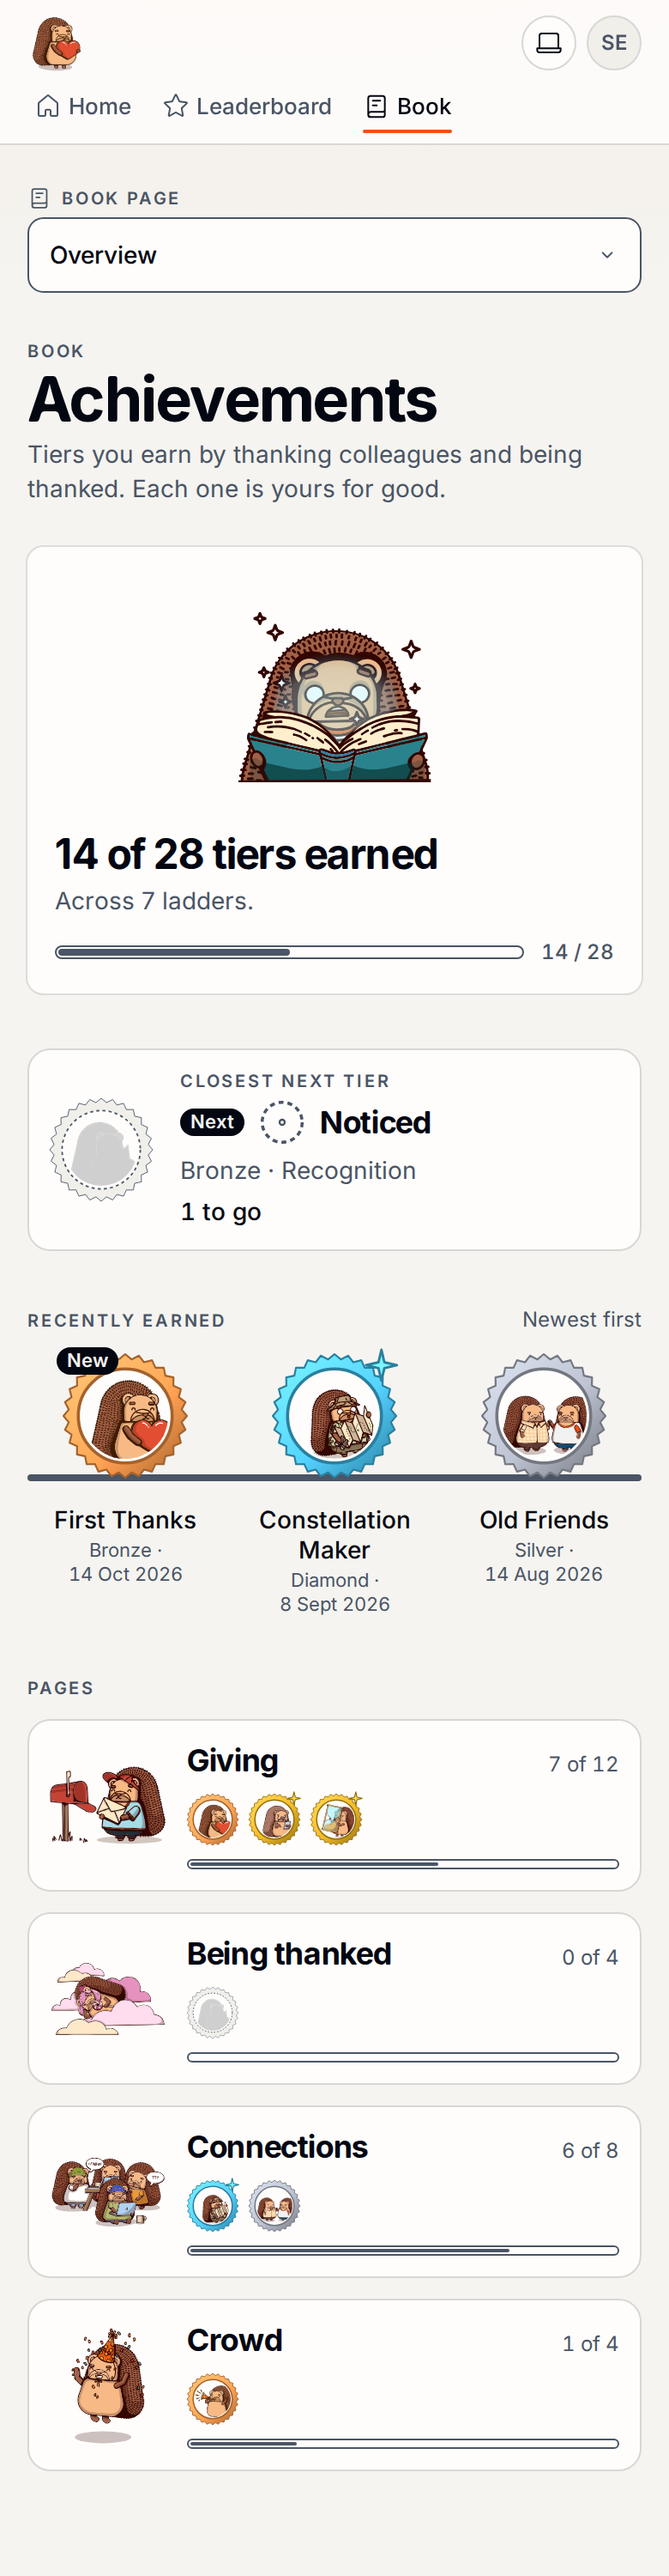
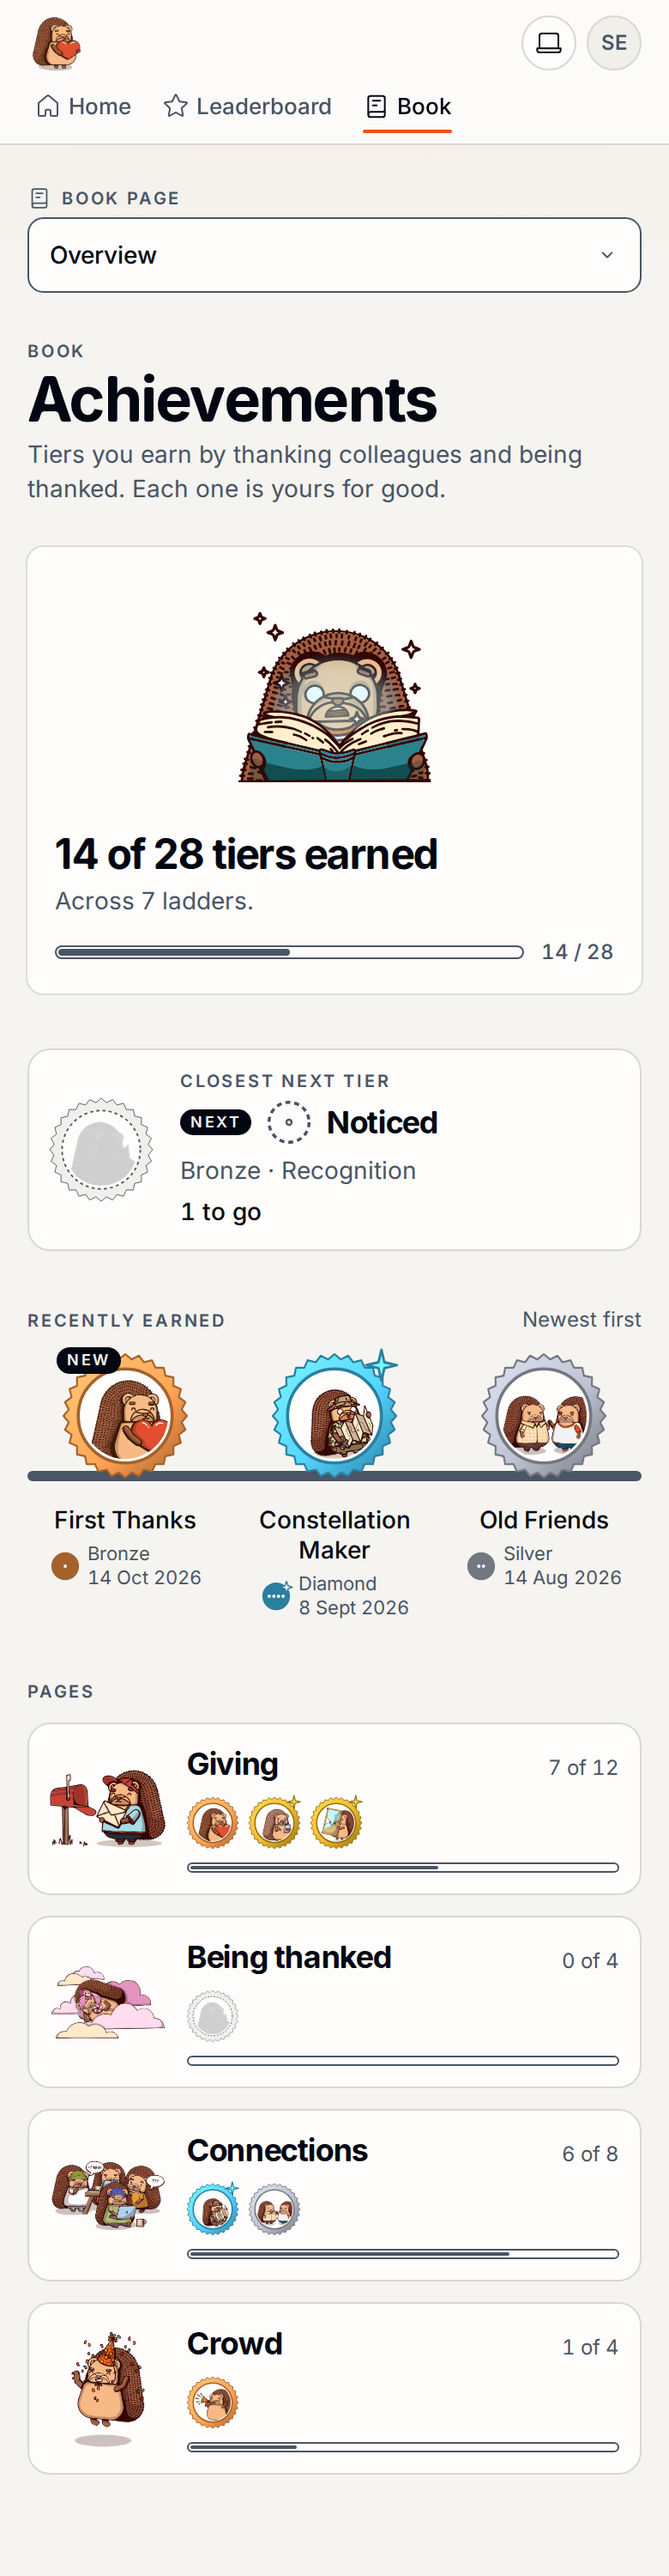
Shelf medals with pips, a non-vacuous hedgehog test, and Fable's polish
Sol round 1: each shelved tier now shows its earned medal with one to
four pips beside its word (V16, V24), and the hedgehog test fails when
the hedgehog is missing. Fable: hud-label tags, a seated shelf plank,
and stacked tier and date on a narrow screen. The live-shell test reads
the overview's totals, and the overview contrast test covers the
shelf's medals.

diff --git a/website/src/book/Overview.tsx b/website/src/book/Overview.tsx
@@ -93,10 +93,10 @@ function RecentlyEarned({ ladders, chapters, timeZone }: OverviewProps & { chapt
         Recently earned
       </SectionHeading>
       <div className="relative">
-        <span aria-hidden="true" className="absolute inset-x-0 top-[70px] h-1 rounded-full bg-muted-foreground" />
+        <span aria-hidden="true" className="absolute inset-x-0 top-[68px] h-1.5 rounded-sm bg-muted-foreground" />
         <ol aria-labelledby={headingId} className={`relative grid gap-x-2 ${wide ? "grid-cols-5" : "grid-cols-3"}`}>
           {shelf.map((entry, i) => (
-            <ShelfItem key={entry.ladder.ladder} entry={entry} fresh={i === 0 && isNew(entry, now)} href={pageOf(entry.ladder, chapters)} timeZone={timeZone} />
+            <ShelfItem key={entry.ladder.ladder} entry={entry} fresh={i === 0 && isNew(entry, now)} href={pageOf(entry.ladder, chapters)} timeZone={timeZone} wide={wide} />
           ))}
         </ol>
       </div>
@@ -104,7 +104,7 @@ function RecentlyEarned({ ladders, chapters, timeZone }: OverviewProps & { chapt
   );
 }
 
-function ShelfItem({ entry: { ladder, tier }, fresh, href, timeZone }: { entry: Shelved; fresh: boolean; href: string; timeZone: string }) {
+function ShelfItem({ entry: { ladder, tier }, fresh, href, timeZone, wide }: { entry: Shelved; fresh: boolean; href: string; timeZone: string; wide: boolean }) {
   return (
     <li className="min-w-0">
       <AppLink
@@ -116,13 +116,26 @@ function ShelfItem({ entry: { ladder, tier }, fresh, href, timeZone }: { entry: 
           <LadderEmblem ladder={ladder.ladder} best={tier.tier} size={72} />
           {fresh && <Tag className="absolute -left-1 -top-1">New</Tag>}
         </span>
-        <span className="mt-4 w-full text-balance break-words px-1 text-sm font-medium leading-tight">{tier.name}</span>
-        <span className="mt-0.5 flex w-full flex-wrap justify-center gap-x-1 px-1 text-[11px] leading-tight tabular-nums text-muted-foreground">
-          <span>{tierWords[tier.tier]} ·</span>{" "}
-          <span>{dateWords(tier.earnedAt, timeZone)}</span>
-        </span>
+        <span className="mt-4 line-clamp-2 w-full text-balance break-words px-1 text-sm font-medium leading-tight">{tier.name}</span>
+        <EarnedLine tier={tier} timeZone={timeZone} wide={wide} />
       </AppLink>
     </li>
+  );
+}
+
+function EarnedLine({ tier, timeZone, wide }: { tier: Shelved["tier"]; timeZone: string; wide: boolean }) {
+  const date = dateWords(tier.earnedAt, timeZone);
+  return (
+    <span className="mt-1 flex w-full items-center justify-center gap-1 px-1 text-[11px] leading-tight tabular-nums text-muted-foreground">
+      <Medal tier={tier.tier} earned size={18} />
+      {wide ? (
+        <span className="truncate">{`${tierWords[tier.tier]} · ${date}`}</span>
+      ) : (
+        <span className="flex flex-col items-start text-left">
+          <span>{tierWords[tier.tier]}</span> <span className="whitespace-nowrap">{date}</span>
+        </span>
+      )}
+    </span>
   );
 }
 

diff --git a/website/src/levelContrast.test.tsx b/website/src/levelContrast.test.tsx
@@ -154,10 +154,11 @@ function overviewGraphics() {
     { part: "each bar's track and fill", surfaces: ["card"], elements: bars.flatMap((bar) => [bar, bar.firstElementChild!]) },
     { part: "the shelf's plank", surfaces: ["background"], elements: [shelf.previousElementSibling!] },
     { part: "the Next medal's outline", surfaces: ["card"], elements: [...overview.querySelectorAll("[data-medal='outline'] circle[stroke^='var(']")] },
+    { part: "each shelved tier's medal", surfaces: ["background"], elements: [...shelf.querySelectorAll("[data-medal='earned'] circle[stroke^='var(']")] },
   ];
 }
 
-describe("WS334 WS339 V24: the overview's rosettes, bars, plank and Next medal meet 3:1 against their surface in both modes", () => {
+describe("WS334 WS339 V24: the overview's rosettes, bars, plank and medals meet 3:1 against their surface in both modes", () => {
   beforeEach(() => {
     fakeSystemTheme(false);
   });
@@ -167,9 +168,9 @@ describe("WS334 WS339 V24: the overview's rosettes, bars, plank and Next medal m
       const measured = overviewGraphics().flatMap(({ part, surfaces, elements }) =>
         elements.flatMap((element) => paintsOf(element).flatMap((paint) => surfaces.map((surface) => ({ part, paint, surface, ratio: contrast(mode, paint, surface) })))),
       );
-      expect(new Set(measured.map(({ part }) => part)).size).toBe(4);
+      expect(new Set(measured.map(({ part }) => part)).size).toBe(5);
       expect(new Set(measured.map(({ paint }) => paint))).toEqual(new Set(["medal-bronze", "medal-silver", "medal-gold", "medal-diamond", "muted-foreground"]));
       expect(measured.filter(({ ratio }) => ratio < 3)).toEqual([]);
-    });
+    }, 30_000);
   }
 });

diff --git a/website/src/BookPage.test.tsx b/website/src/BookPage.test.tsx
@@ -468,7 +468,9 @@ describe("WS334: the Book's overview", () => {
 
   it("shows E's book-reading hedgehog", () => {
     showBookAt("/book");
-    expect(overview().querySelector("[data-hog='reading']")?.closest("[aria-hidden='true']")).not.toBeNull();
+    const hog = overview().querySelector("[data-hog='reading']");
+    expect(hog).toBeInTheDocument();
+    expect(hog!.closest("[aria-hidden='true']")).not.toBeNull();
   });
 
   it("leads to the ladder with the fewest left to its next tier, naming the tier and how many to go, with a neutral Next tag", () => {
@@ -527,6 +529,7 @@ describe("WS334: the Book's overview", () => {
       expect.stringMatching(/Half-Year Hero.*Gold · 30 Jun 2026/),
     ]);
     expect(shelved().map((entry) => entry.querySelector("[data-rosette]")?.getAttribute("data-rosette"))).toEqual(["bronze", "diamond", "silver", "gold", "gold"]);
+    expect(shelved().map((entry) => entry.querySelectorAll("[data-medal='earned'] [data-pip]").length)).toEqual([1, 4, 2, 3, 3]);
     expect(within(shelved()[1]!).getByRole("link")).toHaveAttribute("href", "/book?page=connections");
     expect(main()).toHaveTextContent("Newest first");
   });

diff --git a/website/src/book/Medal.tsx b/website/src/book/Medal.tsx
@@ -7,12 +7,12 @@ const sparkles: ReadonlySet<TierId> = new Set(["gold", "diamond"]);
 
 const pipSpacing = 3.6;
 
-export function Medal({ tier, earned }: { tier: TierId; earned: boolean }) {
+export function Medal({ tier, earned, size = 28 }: { tier: TierId; earned: boolean; size?: number }) {
   const pips = pipsOf[tier];
   const metal = metalOf(tier);
   const ink = earned ? { fill: "var(--card)", stroke: "none" } : { fill: "none", stroke: "var(--muted-foreground)" };
   return (
-    <svg data-medal={earned ? "earned" : "outline"} width={28} height={28} viewBox="0 0 24 24" aria-hidden="true" className="shrink-0 overflow-visible">
+    <svg data-medal={earned ? "earned" : "outline"} width={size} height={size} viewBox="0 0 24 24" aria-hidden="true" className="shrink-0 overflow-visible">
       <circle cx="12" cy="12" r="10" fill={earned ? metal : "none"} stroke={earned ? metal : "var(--muted-foreground)"} strokeWidth="1.5" strokeDasharray={earned ? undefined : "2.5 2"} />
       {Array.from({ length: pips }, (_, pip) => (
         <circle key={pip} data-pip="" cx={12 + (pip - (pips - 1) / 2) * pipSpacing} cy="12" r="1.3" strokeWidth="1" {...ink} />

diff --git a/website/src/liveShell.test.tsx b/website/src/liveShell.test.tsx
@@ -270,7 +270,7 @@ describe("WS87: the skill tree page buys through the live shell's buyPerk", () =
   });
 });
 
-describe("WS90 WS92: the live site reads the Book on /book", () => {
+describe("WS90 WS334: the live site reads the Book on /book", () => {
   beforeEach(() => {
     window.history.replaceState(null, "", "/book");
     profileRead.mockReturnValue(shellFixtures.memberWithTheBookOpened);
@@ -280,7 +280,7 @@ describe("WS90 WS92: the live site reads the Book on /book", () => {
     boardRead.mockReturnValue(bookFixtures.book);
     renderLiveSite();
     expect(pageTitle()).toHaveTextContent("Achievements");
-    expect(screen.getByRole("heading", { level: 2, name: "Generosity" })).toBeInTheDocument();
+    expect(screen.getByRole("heading", { level: 2, name: "1 of 8 tiers earned" })).toBeInTheDocument();
   });
 
   it("shows the error page under the HUD when the Book read fails", async () => {

diff --git a/website/src/book/Tag.tsx b/website/src/book/Tag.tsx
@@ -1,5 +1,5 @@
 import type { ReactNode } from "react";
 
 export function Tag({ children, className = "" }: { children: ReactNode; className?: string }) {
-  return <span className={`rounded-full bg-foreground px-1.5 py-px text-[11px] font-semibold leading-tight text-background ${className}`}>{children}</span>;
+  return <span className={`rounded-full bg-foreground px-1.5 py-0.5 text-[9px] font-semibold uppercase leading-tight tracking-[0.14em] text-background ${className}`}>{children}</span>;
 }

diff --git a/website/proof/book-overview/README.md b/website/proof/book-overview/README.md
@@ -1,0 +1,31 @@
+# The Book's overview (#290)
+
+WS334, WS339; V4, V16, V17, V24; #85. Website only: `getBook`'s read is unchanged, so the screenshots come from the fixture build (`VITE_SHELL_FIXTURE=member-with-the-book-opened`, answered with every shipped ladder at a different stage) at 1440 px and 390 px, served by `vite preview` on 127.0.0.1:7920 and driven in the T3 preview browser. No backend, flag or cloud deployment was touched.
+
+| Shot | What it shows |
+|---|---|
+| `1-overview-wide-light.png` | The overview on a wide screen: E's book-reading hedgehog beside `14 of 28 tiers earned`, `Across 7 ladders.` and a neutral bar; the closest next tier (`Noticed`, `Bronze · Recognition`, `1 to go`, a neutral `Next` tag); five shelved tiers, newest first, the newest tagged `New`; four category tiles with their art, ladder emblems, counts and bars. |
+| `2-overview-wide-dark.png` | The same in dark. |
+| `3-overview-390-light.png` | 390 px: the hedgehog stacks above the totals, the shelf holds three, names and dates wrap rather than truncate, the tiles stack. `scrollWidth` 390. |
+| `4-overview-390-dark.png` | The same in dark. |
+| `5-focus-shelf-wide-light.png` | Keyboard focus on the first shelved tier: the 2 px ring round the whole entry. |
+
+E at the same page, for comparison: the #259 audit's [overview pair](https://github.com/Silthus/kudos/blob/research/prototype-fidelity/research/prototype-fidelity/screenshots/compare-book-overview-light.png) ([dark](https://github.com/Silthus/kudos/blob/research/prototype-fidelity/research/prototype-fidelity/screenshots/compare-book-overview-dark.png)): the right half of each is E.
+
+## Kept from E, and changed on purpose
+
+- **Kept:** the book-reading hedgehog (`HedgehogReadingIsMagic`), `{earned} of {total} tiers earned` with a bar, the `Closest next tier` card with emblem, `Next`, medal, tier name and ladder, linking to its page; `Recently earned` with `Newest first`, the latest tier per ladder on a shelf plank, five wide and three narrow, `New` on the newest; the category tiles with art, ladder emblems, count and bar.
+- **Changed:**
+  - No paper texture or stacked-page shadow: C10 keeps paper for the albums; achievements stay plain Quill cards (V2).
+  - `Next` and `New` are neutral foreground pills, not primary (D2, V4). The bars are neutral `muted-foreground`, and the plank is a solid `muted-foreground` rule, so each meets 3:1 (V24).
+  - The closest next tier shows `{at − count} to go` and no `count / at` bar: Recognition counts kudos received, and received totals stay private on the overview (#85). E's requirement sentence waits for a unit fact, as on the ladder cards.
+  - No reward lines, coins or sticker-album tile: their facts haven't shipped (WS91, WS346, WS347).
+  - No hover tilts or shine: the only motion-like element is the static gold and diamond sparkle (WS339).
+  - Five or three entries switch at the website's own wide breakpoint (64rem, the one the page index uses), and only the shown entries render, so a screen reader hears what is on screen.
+
+## V24 manual pass
+
+- **Focus order:** the page index, the title, the closest next tier, each shelved tier newest first, then each tile in E's order: reading order.
+- **Focus visibility:** every link on the overview draws the 2 px `outline-ring` ring with an offset (`5-focus-shelf-wide-light.png`).
+- **Reduced motion:** nothing on the overview animates, so there is nothing to reduce.
+- **Screen-reader wording:** the totals are a `progressbar` named `14 of 28 tiers earned`; the card reads `Closest next tier: Noticed, Bronze · Recognition, 1 to go`; a shelved tier reads `First Thanks, Bronze Generosity, earned 14 Oct 2026, new`; a tile reads `Giving, 7 of 12 tiers earned`. The art, emblems and tile bars are `aria-hidden`.

diff --git a/website/proof/book-overview/review-round-1.md b/website/proof/book-overview/review-round-1.md
@@ -1,0 +1,5 @@
+1. **Medium — `website/src/book/Overview.tsx:66,151`: borders fail contrast.** The closest-next card and category tiles use the default `border` token, measuring **1.42:1 in light and 1.20:1 in dark** against their card fill, below V24’s 3:1 requirement. The contrast test omits these boundaries. Use a compliant neutral border token and measure both links’ borders against their adjacent surfaces.
+
+2. **Medium — `website/src/book/Overview.tsx:116`: shelf tiers lack medal pips.** Each shelf entry renders only `LadderEmblem`, whose rosette has no pips. Bronze through diamond therefore lack V16/V24’s required “metal plus pips plus its word” representation. Add the earned medal, or tier-specific pips to the shelf rosette, and assert one through four pips.
+
+3. **Low — `website/src/BookPage.test.tsx:471`: the hedgehog test passes when its element is absent.** Removing `[data-hog='reading']` makes optional chaining return `undefined`, which satisfies `.not.toBeNull()`. Assert the element is in the document before checking its `aria-hidden` ancestor.
